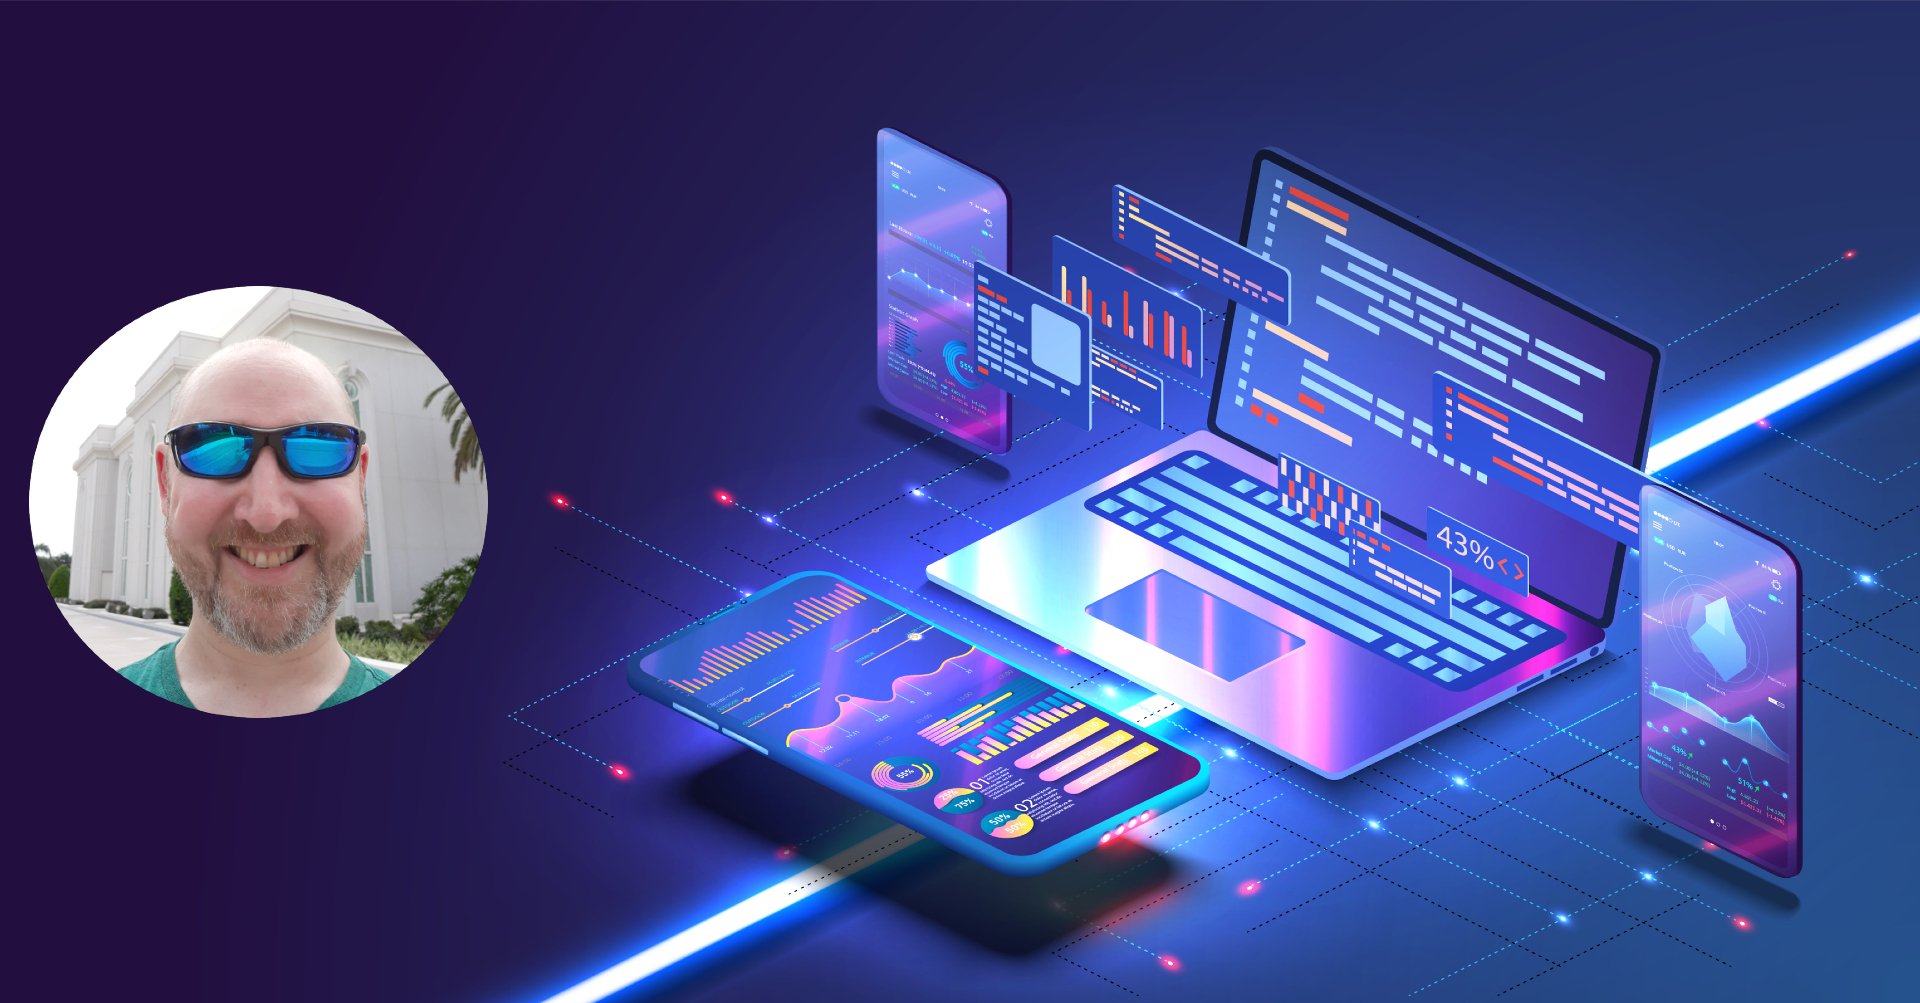
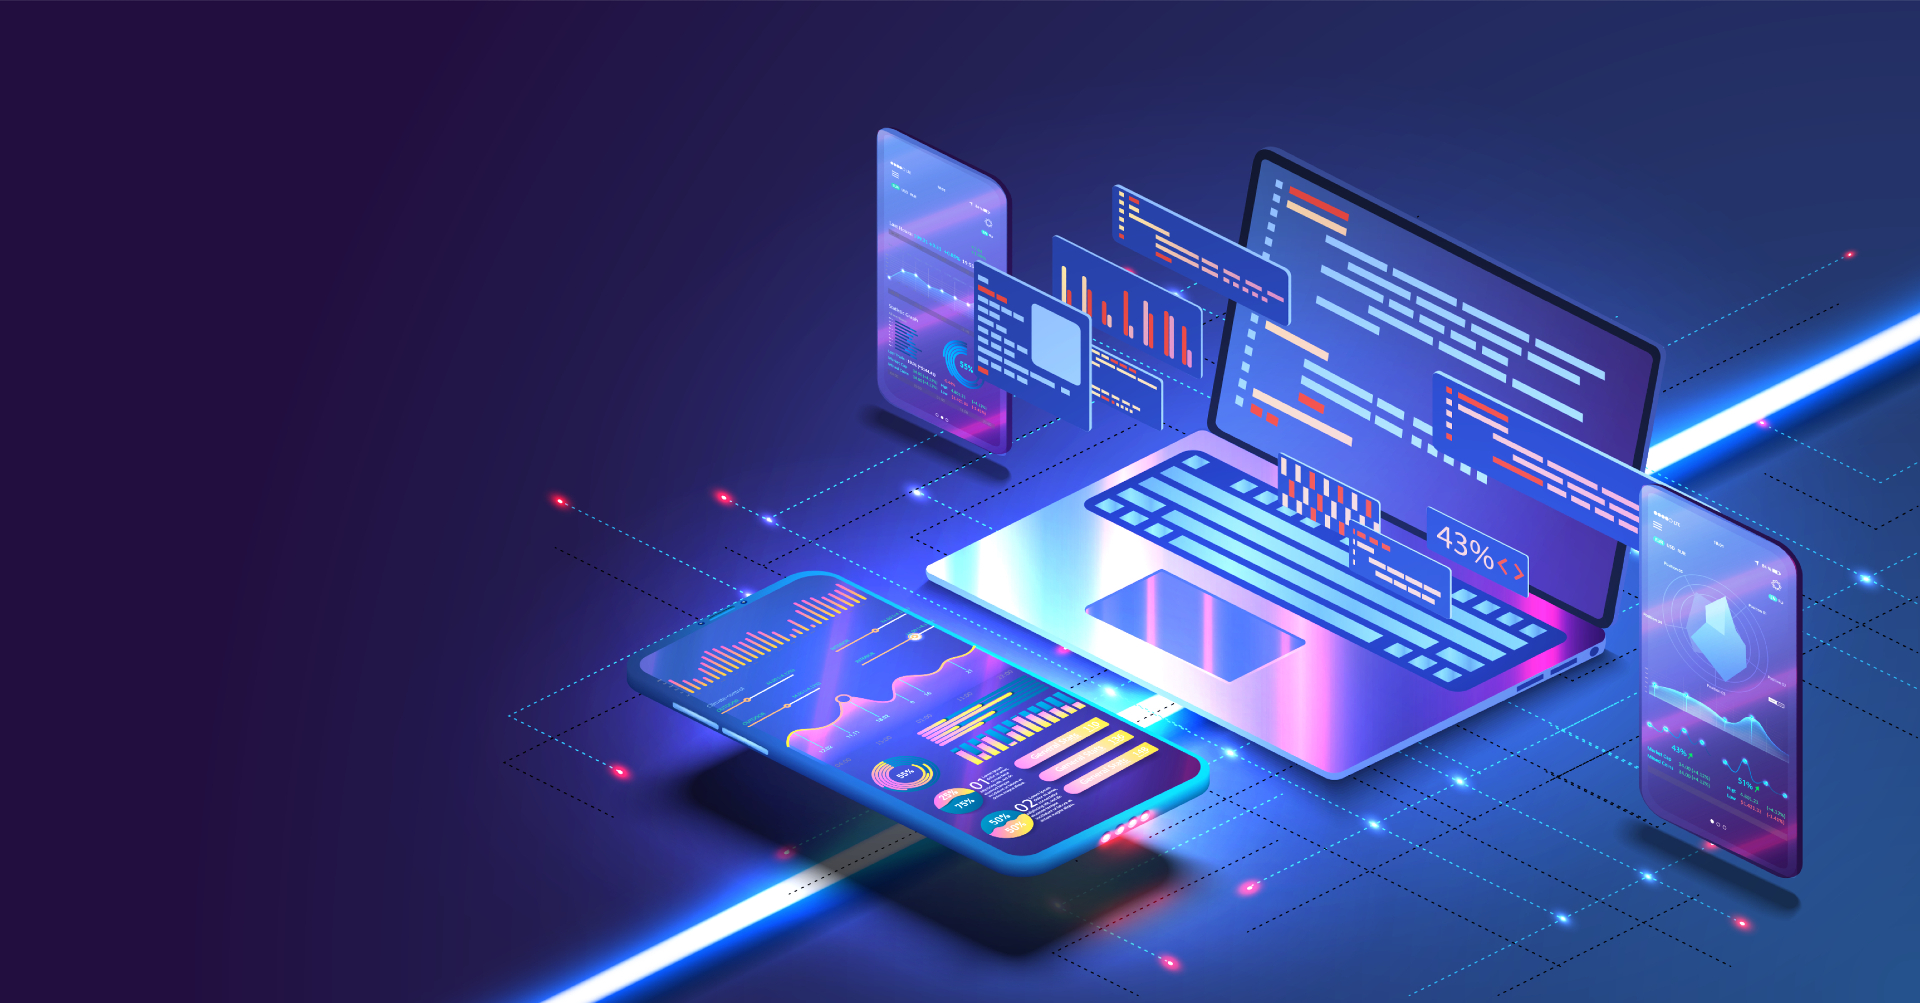
updated css and content for hero, about, contact, and resume

Changed region(s): [[0.0, 0.2782, 0.2812, 0.7418]]

diff --git a/index.html b/index.html
@@ -39,8 +39,12 @@
 
         <!-- hero section -->
         <section class="hero">
+            <div class="brianpic">
+                <!-- insert this img element -->
+                <img src="./assets/images/brian5.png" alt="Brian Done" title="Brian Done" />
+            </div>
             <div class="hero-developer">
-                <h2>Full Stack Developer</h2>
+                <h2><span class="yellow">&#10092;</span>Full Stack Developer<span class="yellow">&#10093;</span></h2>
             </div>
             <div class="hero-sub-title">
                 <h3>
@@ -57,7 +61,15 @@
                 <h3>About<br/> Brian</h3>
             </div>
             <article class="detail-light">
-                <p>I am a Full Stack Web Developer that loves to be creative. My skills include HTML, CSS, Responsive Design, and JavaScript</p>
+                <p>
+                    I am a Full Stack Web Developer that loves to be cre8tive.<br/><br/>
+                    My skills include HTML, CSS, and Responsive Design.<br/><br/> 
+                    I have been passionate about coding since I was a kid, teaching myself how to code in HTML when there was only dial up internet! Since then I have been on a life long journey of learning and improving my coding skills. I love to create websites around my hobbies including astronomy, gaming, roleplaying, photography, and more. I am always trying to perfect my projects and pay attention to detail.<br/><br/>
+                    I am great at working in a team environment, thinking outside the box, and constantly looking to the future evolution of technology.
+                </p>
+                <p>
+                    As a Full Stack Web Developer, my desire is to help bring about the evolution of the Internet to the next level. I am fascinated with the concept of how the future of the Internet will evolve and morph. I am focused on making professional next generation websites and applications that add value to the web industry. I am committed to constantly learning and perfecting my coding craft to bring these ideals to reality!
+                </p>
             </article>
         </section>
         <!-- end about brian -->
@@ -125,17 +137,17 @@
 
         <!-- contact me section -->
         <!-- make 2 divs with flexbox-->
-        <section class="container-light" id="contact">
-            <div class="detail-title-light">
+        <section class="container-contact" id="contact">
+            <div class="detail-title-contact">
                 <h3>Contact</h3>
             </div>
-            <div class="detail-light">
+            <div class="detail-contact">
                 <div class="contact">
                     <div class="method">
                         <a href="tel:1-813-551-9096"><h4>813.551.9096</h4></a>
                     </div class="method">
                     <div class="method">
-                        <h4><a href="mailto:someone@yoursite.com">Email: briguy2078@gmail.com</h4></div>
+                        <h4><a href="mailto:briguy2078@gmail.com">briguy2078@gmail.com</h4></div>
                     </div>
                     <div class="method">
                         <h4><a href="https://github.com/bdoneq7">Github</h4></a>
@@ -159,11 +171,25 @@
                 <h3>Resume</h3>
             </div>
             <div class="detail-dark">
-                <p>Skills:<br/><br/>
-                    HTML<br/>
-                    CSS<br/>
-                    Responsive Design<br/>
-                </p>
+                <div class="resume-title">
+                    <h4>Technical Skills</h4>
+                </div>
+                <div class="skills">
+                    <p>
+                        &#10149; HTML<br/>
+                        &#10149; CSS<br/>
+                        &#10149; Responsive Design<br/>
+                    </p>
+                </div>
+                <div class="resume-title">
+                    <h4>Education</h4>
+                </div>
+                <div class="skills">
+                    <p>
+                        &#10004; UCF Full Stack Developer Certificate (2021-2022)<br/>
+                        &#10004; Devry University Bachelor Degree in Multimedia & Web Development (2011-2015)<br/>
+                    </p>
+                </div>
             </div>
         </section>    
         <!-- end contact me -->

diff --git a/assets/css/style.css b/assets/css/style.css
@@ -47,8 +47,7 @@ header h1 {
     font-size:36px;
     color:var(--fourth-color);
     margin:0;
-    text-shadow: 0 0 10px rgba(0,0,0,0.5);
-    background: var(--ninth-color);
+    text-shadow: 0 0 10px rgba(248, 89, 200, 0.5);
 }
 
 header a {
@@ -111,7 +110,7 @@ header nav ul li a:hover {
     align-items: flex-start;
 }
 
-.hero-developer {
+.brianpic {
     width: 23%;
     text-align: center;
     margin: 3.5%;
@@ -121,7 +120,21 @@ header nav ul li a:hover {
     line-height: 1.2;
     position: absolute;
     top: 100px;
-    left: 250px;
+    left: 0px;
+    
+}
+
+.hero-developer {
+    width: 23%;
+    text-align: center;
+    margin: 3.5%;
+    padding-right:20px;
+    color: var(--fifth-color);
+    font-size: 18px;
+    line-height: 1.2;
+    position: absolute;
+    top: 100px;
+    left: 275px;
     
 }
 
@@ -130,7 +143,7 @@ header nav ul li a:hover {
     background-color: rgba(252,225,56,0.8);
     padding:20px;
     color:var(--secondary-color);
-    width: 24%;
+    width: 22%;
     margin: 3.5%;
     box-shadow: 0 0 10px rgba(0,0,0,0.5);
     border-radius: 15px;
@@ -222,7 +235,6 @@ section {
     color: var(--secondary-color);
     display: flex;
     justify-content: left;
-    text-align: right;
     flex-wrap: wrap;
     align-items: flex-start;
     height: 300px;
@@ -353,7 +365,7 @@ section {
     width:39.15%;
     margin-top: 20px;
     margin-right: 20px;
-    border: 5px solid var(--fourth-color);
+    border: 5px dashed var(--fourth-color);
 }
 
 .sample-work img {
@@ -384,6 +396,49 @@ section {
 
 /* Contact Styles */
 
+.container-contact {
+    background: var(--ninth-color); 
+    background-size: cover;
+    background-attachment: fixed;
+    background-position: 80%;
+    display: flex;
+    justify-content: center;
+    flex-wrap: wrap;
+    align-items: center;
+    height: 200px;
+    color: var(--fifth-color);
+}
+
+.detail-title-contact {
+    background: var(--ninth-color); 
+    color: var(--secondary-color);
+    font-size: 30px;
+    display: flex;
+    justify-content: right;
+    flex-wrap: wrap;
+    align-items: flex-start;
+    height: 100px;
+    width: 15%;
+    padding-right: 10px;
+    border-right: 2px solid var(--fifth-color);
+    color: var(--fifth-color);
+}
+
+.detail-contact {
+    background: var(--ninth-color); 
+    color: var(--secondary-color);
+    display: flex;
+    justify-content: left;
+    text-align: right;
+    flex-wrap: wrap;
+    align-items: flex-start;
+    height: 100px;
+    width: 85%;
+    padding-left: 20px;
+    color: var(--fifth-color);
+}
+
+
 .contact {
     text-decoration: underline;
     display: flex;
@@ -406,6 +461,31 @@ section {
 }
 
 /* Contact End */
+
+
+/* Resume Styles */
+
+.resume-title {
+    display:flex;
+    justify-content: right;
+    flex-wrap: wrap;
+    align-items: center;
+    width: 15%;
+    margin-right: 20px;
+    color: var(--fourth-color);
+    font-size: 20px;
+}
+
+.skills {
+    display:flex;
+    justify-content: left;
+    flex-wrap: wrap;
+    align-items: center;
+    width: 80%;
+    font-size: 20px;
+}
+
+/* Resume Styles End */
 
 /* Footer styles */
 
@@ -437,8 +517,8 @@ footer a {
 
 /* Utility Classes */
 
-.flex-row {
-    display: flex;
+.yellow {
+    color: var(--fourth-color);
 }
 
 /* Media queries must go in the following order, after all of the other styles */
